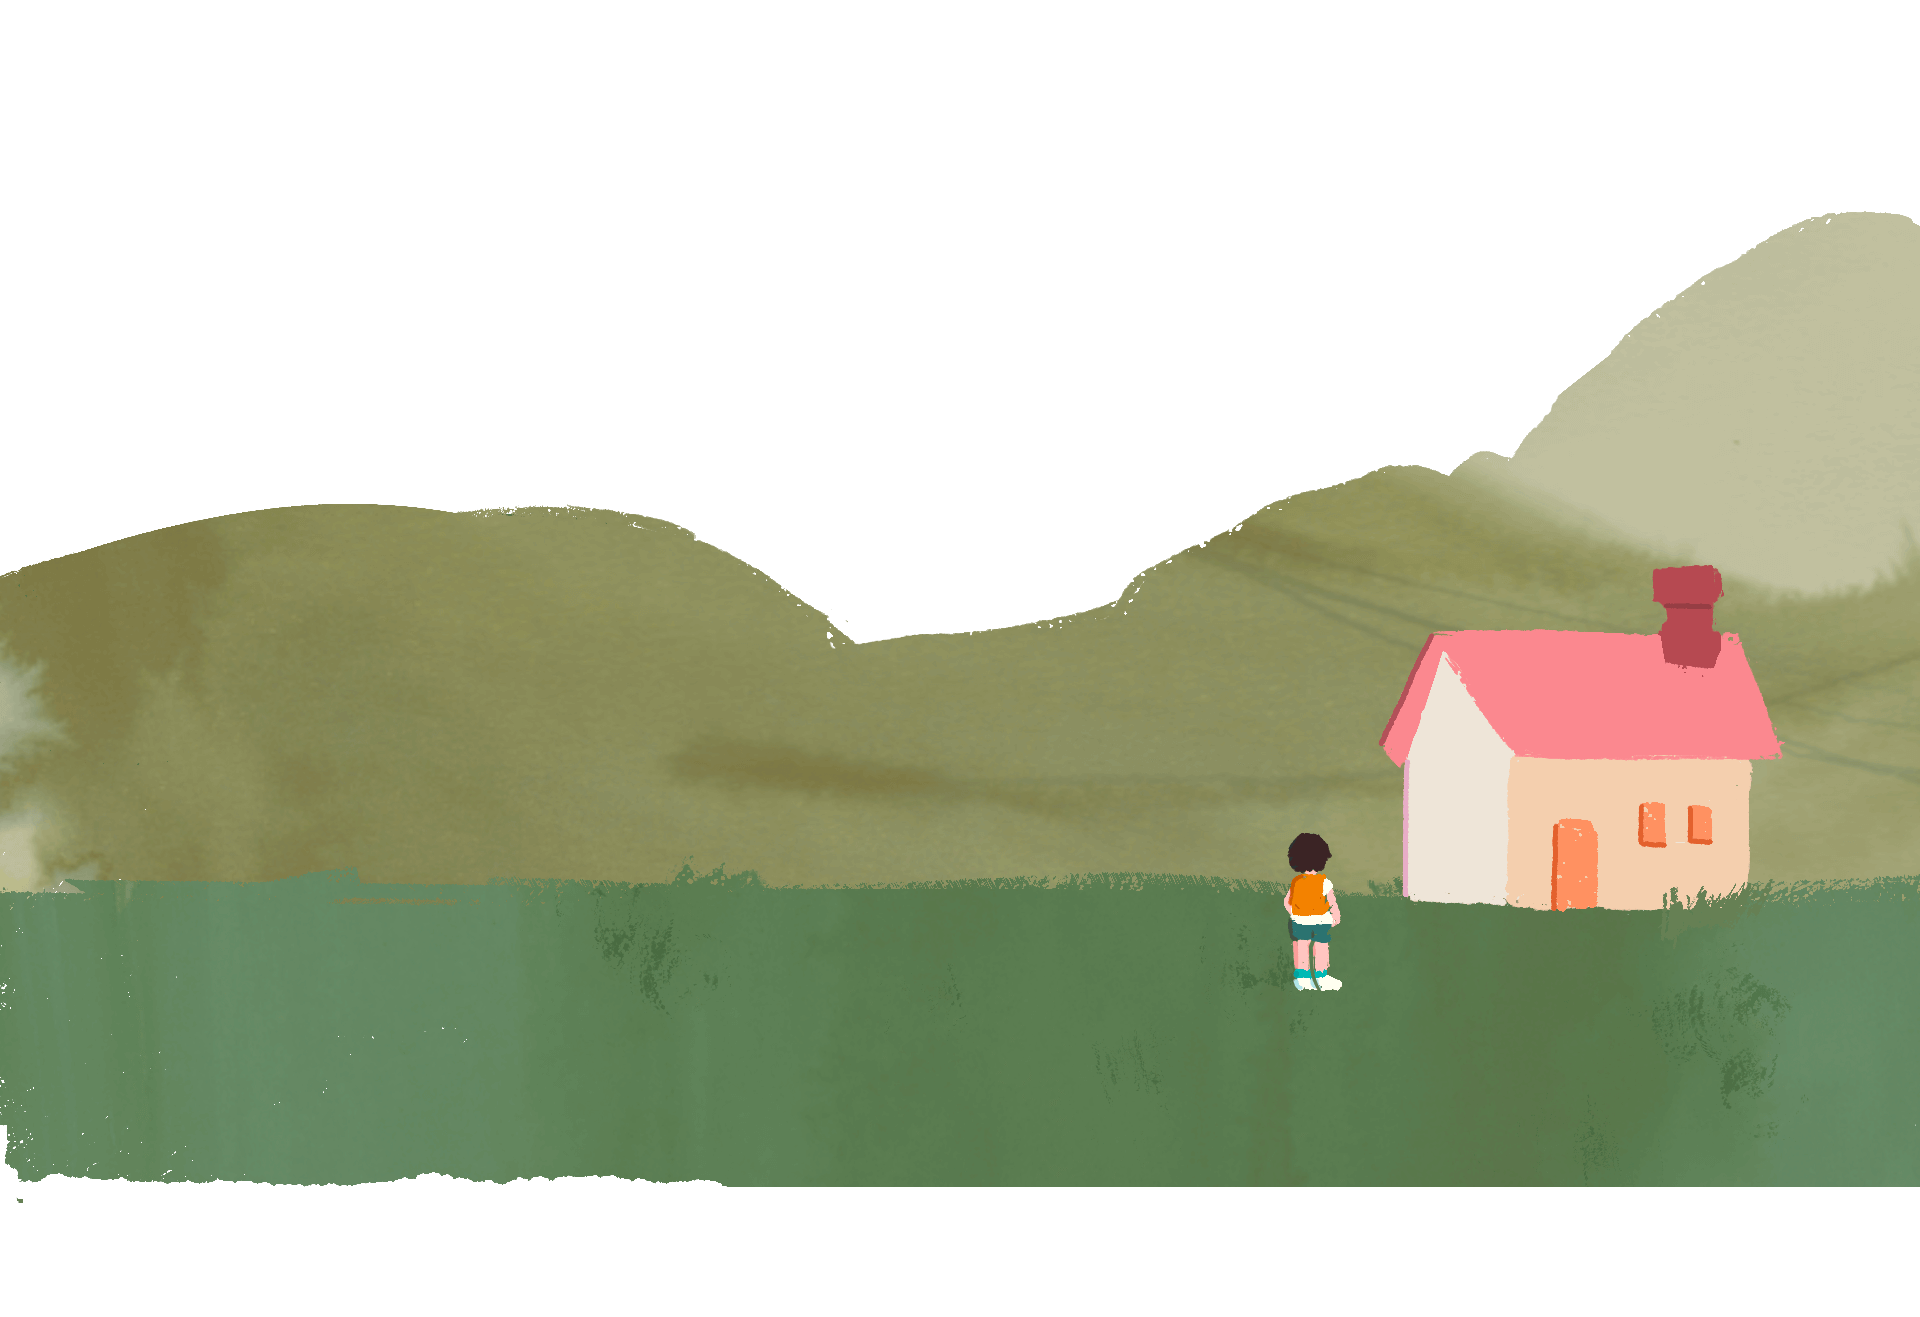
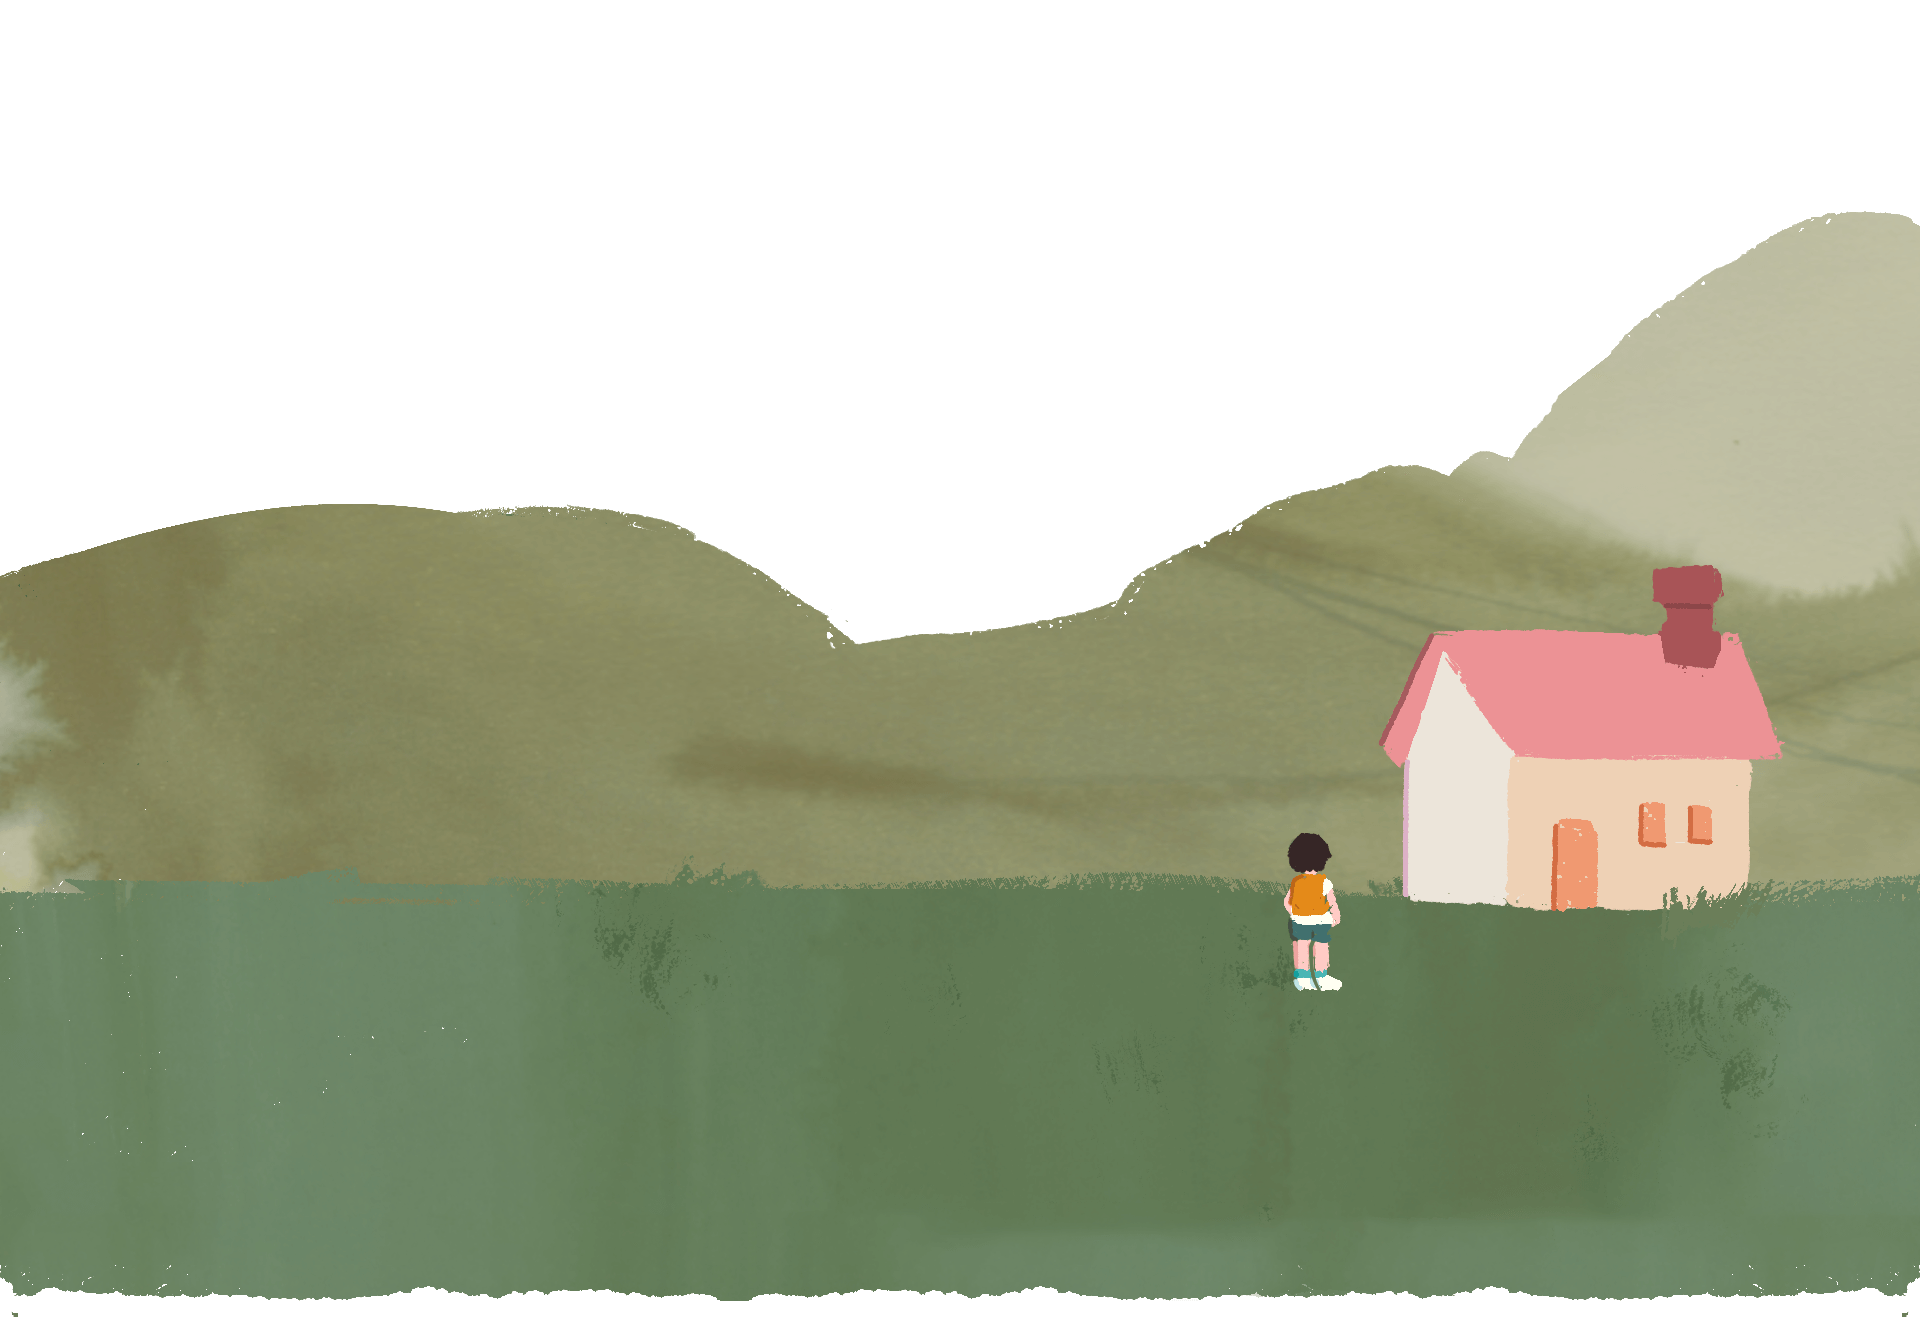
fix intro first screen

Changed region(s): [[0.0, 0.8717, 1.0, 0.9962], [0.6562, 0.6538, 0.6875, 0.716]]

diff --git a/src/UI/views/Intro.vue b/src/UI/views/Intro.vue
@@ -66,13 +66,13 @@ onMounted(() => {
     .fromTo(
       ".section__element--1-colline",
       { y: "10vh" },
-      { duration: 1, y: "-10" },
+      { duration: 1, y: "-10vh" },
       "<"
     )
     .fromTo(
       ".section__element--1-maison",
       { y: "20vh" },
-      { duration: 1, y: "-20vh" },
+      { duration: 1, y: "-15vh" },
       "<"
     )
     .fromTo(
@@ -93,7 +93,7 @@ onMounted(() => {
     .fromTo(
       ".section__element--1-buissons",
       { y: "25vh" },
-      { duration: 1, y: "-25vh" },
+      { duration: 1, y: "-10vh" },
       "<"
     )
 
